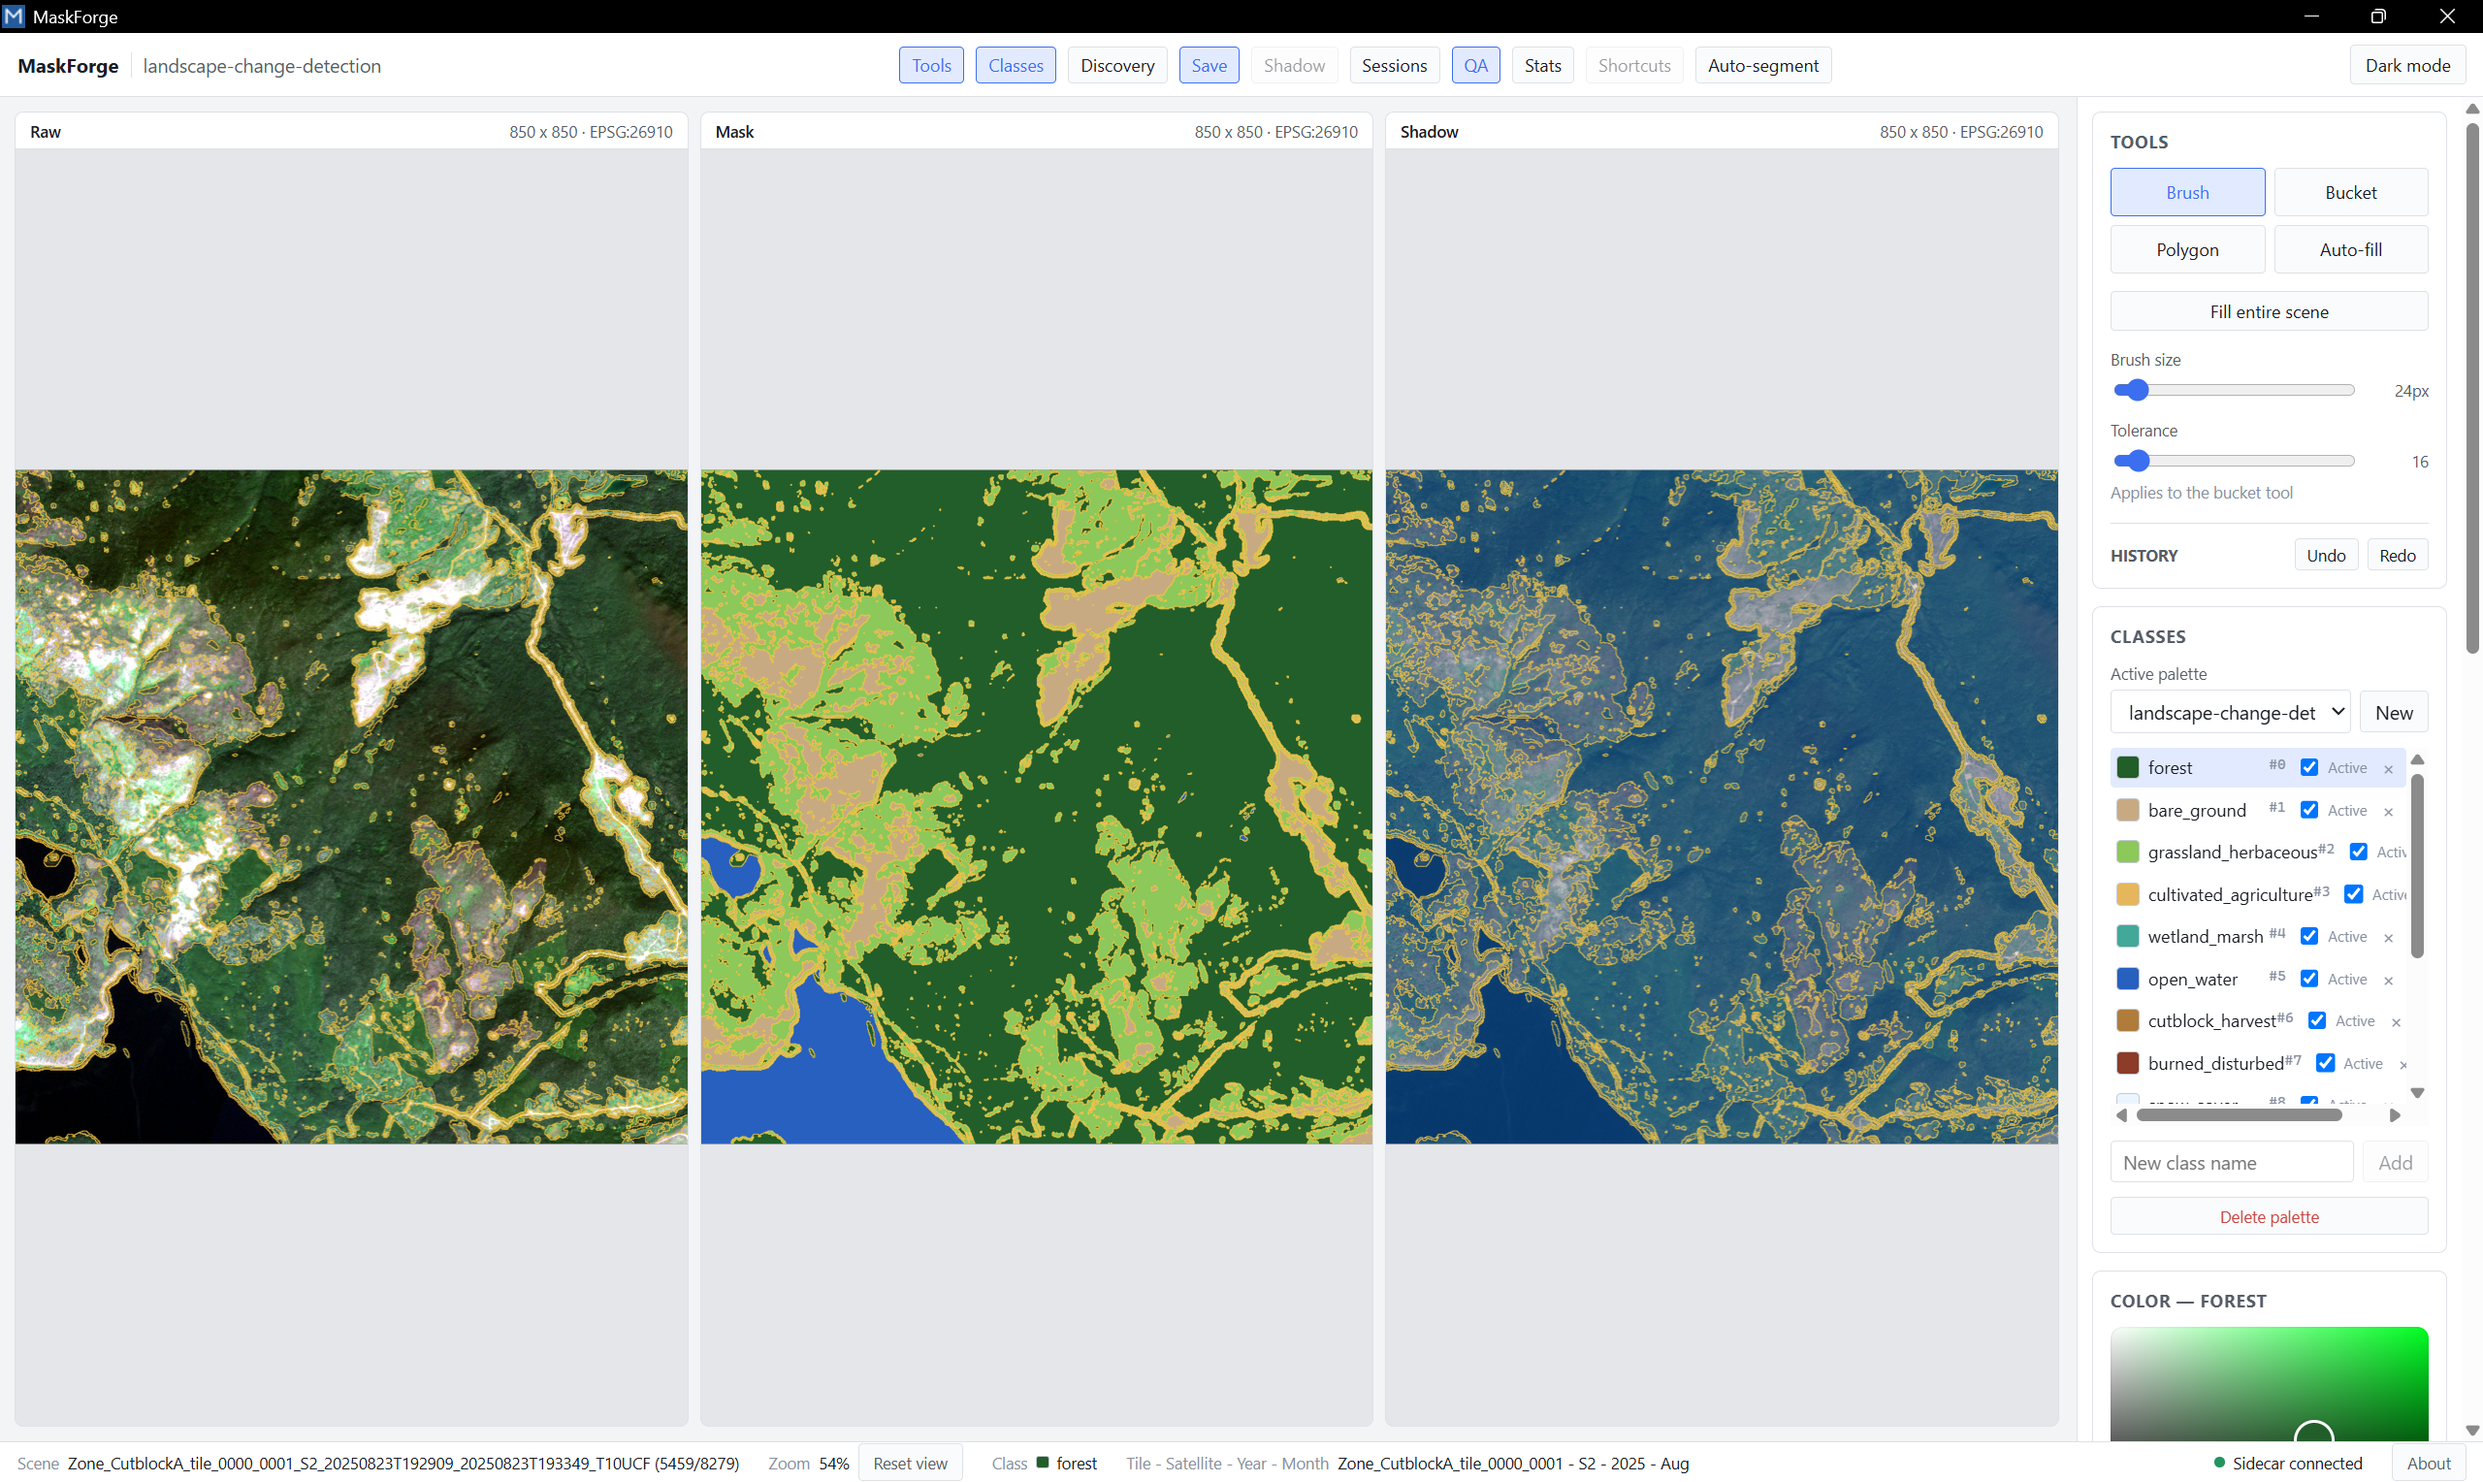
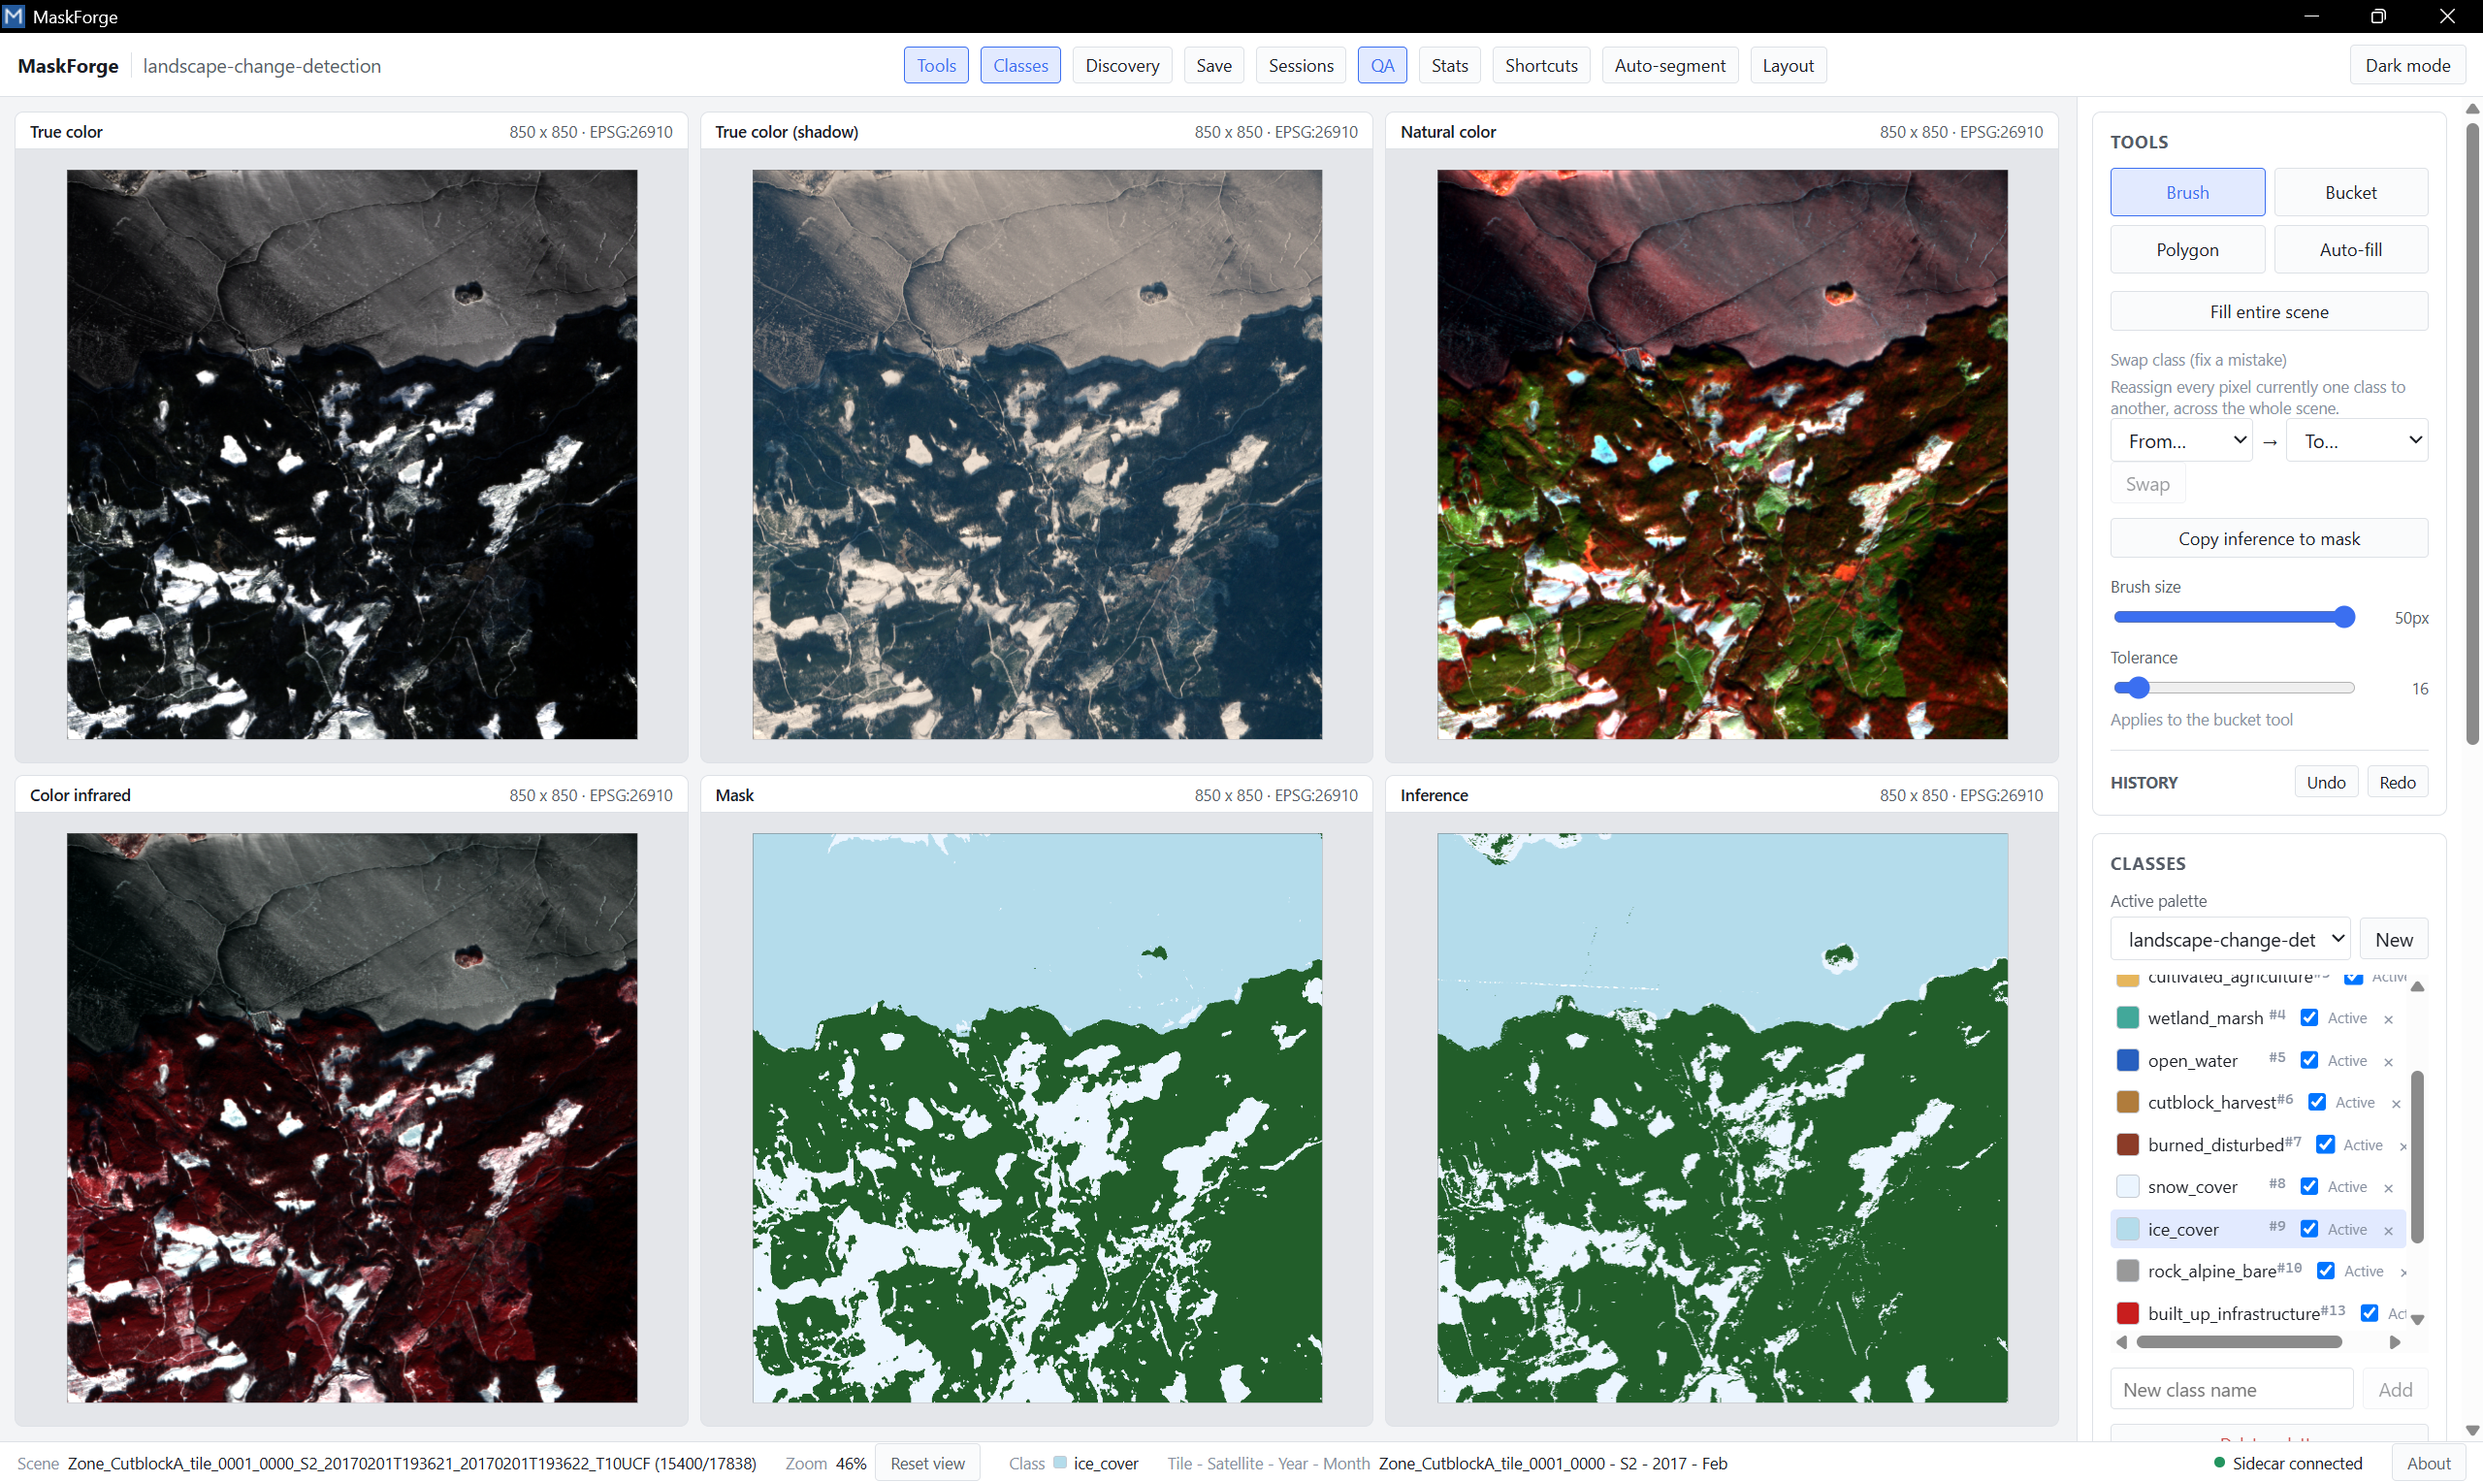
Release v1.2.2: fix reloaded-mask editing (stale render, undo, RGB nodata), filter-aware scene navigation
Editing a previously saved mask always re-rendered the static file on
disk instead of the live in-memory buffer, so painting, undo/redo, and
contour updates had no visible effect until the next save. Also fixes
a 3-band (no-alpha) RGB mask being replaced entirely with nodata on
load instead of decoding its painted classes, and makes Ctrl+A/D scene
navigation respect the Discovery panel's QA/mode filters instead of
walking the full unfiltered scene list.

diff --git a/src/state/sessionStore.ts b/src/state/sessionStore.ts
@@ -4,7 +4,7 @@
  */
 
 import { create } from "zustand";
-import type { SceneEntry, SessionState } from "@/types/api";
+import type { QaStatus, SceneEntry, SceneMode, SessionState } from "@/types/api";
 import { updateSession } from "@/api/client";
 
 const AUTOSAVE_DEBOUNCE_MS = 500;
@@ -18,6 +18,18 @@ export function isSceneDone(scene: SceneEntry): boolean {
   return scene.mode === "review" || scene.qa_status === "validated";
 }
 
+/** Same predicate as DiscoveryPanel's own filteredScenes memo -- kept here
+ * (not local panel state) so Ctrl+A/D scene navigation can skip scenes the
+ * Discovery panel's QA/mode filters currently hide, instead of walking the
+ * full unfiltered scene list. */
+export function matchesSceneFilter(
+  scene: SceneEntry,
+  qaFilter: QaStatus | "all",
+  modeFilter: SceneMode | "all",
+): boolean {
+  return (qaFilter === "all" || scene.qa_status === qaFilter) && (modeFilter === "all" || scene.mode === modeFilter);
+}
+
 export type SidecarConnectionStatus = "connecting" | "connected" | "disconnected";
 
 interface SessionStoreState {
@@ -28,6 +40,11 @@ interface SessionStoreState {
    * process a subset) -- purely a local UI preference, not part of the
    * SessionState schema synced with the sidecar. */
   selectedSceneIds: Set<string>;
+  /** QA-status/mode filters shown in the Discovery panel -- lifted up here
+   * (rather than kept as panel-local state) so scene navigation (Ctrl+A/D)
+   * can respect them too, not just the Discovery panel's own list. */
+  qaFilter: QaStatus | "all";
+  modeFilter: SceneMode | "all";
   dirty: boolean;
   saving: boolean;
   lastSavedAt: number | null;
@@ -59,6 +76,8 @@ interface SessionStoreState {
   toggleSceneSelection: (sceneId: string) => void;
   selectAllScenes: (sceneIds: string[]) => void;
   clearSceneSelection: () => void;
+  setQaFilter: (filter: QaStatus | "all") => void;
+  setModeFilter: (filter: SceneMode | "all") => void;
   setActiveSceneIndex: (index: number) => void;
   goToNextScene: () => void;
   goToNextUnfinishedScene: () => void;
@@ -111,6 +130,8 @@ export const useSessionStore = create<SessionStoreState>((set, get) => ({
   scenes: [],
   activeSceneIndex: 0,
   selectedSceneIds: new Set<string>(),
+  qaFilter: "all",
+  modeFilter: "all",
   dirty: false,
   saving: false,
   lastSavedAt: null,
@@ -187,38 +208,60 @@ export const useSessionStore = create<SessionStoreState>((set, get) => ({
 
   clearSceneSelection: () => set({ selectedSceneIds: new Set<string>() }),
 
+  setQaFilter: (filter) => set({ qaFilter: filter }),
+  setModeFilter: (filter) => set({ modeFilter: filter }),
+
   setActiveSceneIndex: (index) =>
     set((state) => ({
       activeSceneIndex: Math.min(Math.max(0, index), Math.max(0, state.scenes.length - 1)),
     })),
 
   goToNextScene: () =>
-    set((state) => ({
-      activeSceneIndex: Math.min(state.activeSceneIndex + 1, Math.max(0, state.scenes.length - 1)),
-    })),
+    set((state) => {
+      const { scenes, activeSceneIndex, qaFilter, modeFilter } = state;
+      for (let idx = activeSceneIndex + 1; idx < scenes.length; idx++) {
+        if (matchesSceneFilter(scenes[idx], qaFilter, modeFilter)) {
+          return { activeSceneIndex: idx };
+        }
+      }
+      return {};
+    }),
 
   goToNextUnfinishedScene: () =>
     set((state) => {
-      const { scenes, activeSceneIndex } = state;
+      const { scenes, activeSceneIndex, qaFilter, modeFilter } = state;
       if (scenes.length === 0) return {};
       // Search forward from just after the current scene, wrapping around,
       // so a scene already done -- either saved (mode "review") or
       // validated in the QA workflow (qa_status "validated") -- is skipped
-      // in favor of the next one still needing work. Falls back to just
-      // moving forward by one if every remaining scene is already done.
+      // in favor of the next one still needing work, and one hidden by the
+      // Discovery panel's current QA/mode filters is skipped too. Falls
+      // back to the plain next-scene behavior (also filter-aware) if every
+      // remaining scene is already done.
       for (let offset = 1; offset <= scenes.length; offset++) {
         const idx = (activeSceneIndex + offset) % scenes.length;
-        if (!isSceneDone(scenes[idx])) {
+        if (!isSceneDone(scenes[idx]) && matchesSceneFilter(scenes[idx], qaFilter, modeFilter)) {
           return { activeSceneIndex: idx };
         }
       }
-      return { activeSceneIndex: Math.min(activeSceneIndex + 1, scenes.length - 1) };
+      for (let idx = activeSceneIndex + 1; idx < scenes.length; idx++) {
+        if (matchesSceneFilter(scenes[idx], qaFilter, modeFilter)) {
+          return { activeSceneIndex: idx };
+        }
+      }
+      return {};
     }),
 
   goToPreviousScene: () =>
-    set((state) => ({
-      activeSceneIndex: Math.max(state.activeSceneIndex - 1, 0),
-    })),
+    set((state) => {
+      const { scenes, activeSceneIndex, qaFilter, modeFilter } = state;
+      for (let idx = activeSceneIndex - 1; idx >= 0; idx--) {
+        if (matchesSceneFilter(scenes[idx], qaFilter, modeFilter)) {
+          return { activeSceneIndex: idx };
+        }
+      }
+      return {};
+    }),
 
   setConnectionStatus: (status) => set({ connectionStatus: status }),
 

diff --git a/src/components/panels/DiscoveryPanel.tsx b/src/components/panels/DiscoveryPanel.tsx
@@ -20,7 +20,7 @@
  */
 
 import { useMemo, useState } from "react";
-import { isSceneDone, useSessionStore } from "@/state/sessionStore";
+import { isSceneDone, matchesSceneFilter, useSessionStore } from "@/state/sessionStore";
 import { discoverScenes, pickFolder } from "@/api/client";
 import type { DiscoveryConfig, QaStatus, ScanRule, SceneMode } from "@/types/api";
 
@@ -53,6 +53,10 @@ export default function DiscoveryPanel() {
   const toggleSceneSelection = useSessionStore((s) => s.toggleSceneSelection);
   const selectAllScenes = useSessionStore((s) => s.selectAllScenes);
   const clearSceneSelection = useSessionStore((s) => s.clearSceneSelection);
+  const qaFilter = useSessionStore((s) => s.qaFilter);
+  const setQaFilter = useSessionStore((s) => s.setQaFilter);
+  const modeFilter = useSessionStore((s) => s.modeFilter);
+  const setModeFilter = useSessionStore((s) => s.setModeFilter);
 
   const [config, setConfig] = useState<DiscoveryConfig>(
     session?.discovery ?? {
@@ -64,14 +68,9 @@ export default function DiscoveryPanel() {
   );
   const [running, setRunning] = useState(false);
   const [error, setError] = useState<string | null>(null);
-  const [qaFilter, setQaFilter] = useState<QaStatus | "all">("all");
-  const [modeFilter, setModeFilter] = useState<SceneMode | "all">("all");
 
   const filteredScenes = useMemo(
-    () =>
-      scenes.filter(
-        (s) => (qaFilter === "all" || s.qa_status === qaFilter) && (modeFilter === "all" || s.mode === modeFilter),
-      ),
+    () => scenes.filter((s) => matchesSceneFilter(s, qaFilter, modeFilter)),
     [scenes, qaFilter, modeFilter],
   );
 

diff --git a/sidecar/api/routers/scenes.py b/sidecar/api/routers/scenes.py
@@ -240,11 +240,17 @@ def get_layers(scene_id: str, views: str = "") -> LayersResponse:
     # the user to touch a single pixel first.
     buf = _ensure_buffer(scene_id)
 
-    # A scene with no mask.tif on disk yet (never annotated) still has that
-    # freshly-created buffer -- render it instead of returning None, so the
-    # mask panel shows a paintable blank canvas immediately rather than
-    # "No mask yet" until the first stroke happens to succeed.
-    mask_layer = _layer_from_path(scene.mask_path) or _layer_from_mask_buffer(buf)
+    # Always render the live in-memory buffer, never the static file on
+    # disk: _ensure_buffer already loaded scene.mask_path's contents into
+    # buf.classes the first time this scene was opened, and every edit
+    # since (paint, undo/redo, auto-segment apply) mutates buf.classes in
+    # place without rewriting the file until the next explicit save. A
+    # scene with no mask.tif on disk yet (never annotated) still has that
+    # freshly-created buffer (entirely NODATA_VALUE) -- render it instead
+    # of returning None, so the mask panel shows a paintable blank canvas
+    # immediately rather than "No mask yet" until the first stroke happens
+    # to succeed.
+    mask_layer = _layer_from_mask_buffer(buf)
 
     # A scene discovered outside the zarr path (plain raw/shadow files) has
     # no rgb_composites entries -- fall back to its raw_path/shadow_path

diff --git a/sidecar/maskforge_core/raster_io.py b/sidecar/maskforge_core/raster_io.py
@@ -360,6 +360,35 @@ def rgba_to_classes(
     return classes
 
 
+def rgb_to_classes(
+    mask_rgb: np.ndarray,
+    class_colors: dict[str, tuple[int, int, int]],
+    class_values: dict[str, int],
+) -> np.ndarray:
+    """Vectorized RGB (no alpha) -> class-index conversion, for masks saved
+    via the geotiff_rgb output format (see classes_to_rgb, which encodes
+    NODATA_VALUE as black (0, 0, 0) since it has no alpha channel to signal
+    "unpainted" with). Any pixel not matching a known class color -- black
+    or otherwise -- is left at NODATA_VALUE, mirroring rgba_to_classes'
+    unmatched-pixel behaviour.
+    """
+    h, w = mask_rgb.shape[:2]
+    classes = np.full((h, w), NODATA_VALUE, dtype=np.uint8)
+
+    for name, color in class_colors.items():
+        val = class_values.get(name)
+        if val is None:
+            continue
+        m = (
+            (mask_rgb[:, :, 0] == color[0])
+            & (mask_rgb[:, :, 1] == color[1])
+            & (mask_rgb[:, :, 2] == color[2])
+        )
+        classes[m] = val
+
+    return classes
+
+
 def classes_to_rgb(
     classes: np.ndarray,
     class_colors: dict[str, tuple[int, int, int]],

diff --git a/sidecar/api/routers/masks.py b/sidecar/api/routers/masks.py
@@ -101,7 +101,18 @@ def _ensure_buffer(scene_id: str) -> MaskBuffer:
         else:
             rgba, _ = raster_io.read_image_any(mask_path)
         if rgba.ndim == 3 and rgba.shape[-1] == 4:
-            classes = raster_io.rgba_to_classes(rgba, {}, {})
+            palette = state.get_active_palette()
+            class_colors = palette.color_map() if palette is not None else {}
+            class_values = palette.value_map() if palette is not None else {}
+            classes = raster_io.rgba_to_classes(rgba, class_colors, class_values)
+        elif rgba.ndim == 3 and rgba.shape[-1] == 3:
+            # geotiff_rgb output format has no alpha channel -- NODATA_VALUE
+            # was encoded as black on save (see classes_to_rgb), not as
+            # transparency.
+            palette = state.get_active_palette()
+            class_colors = palette.color_map() if palette is not None else {}
+            class_values = palette.value_map() if palette is not None else {}
+            classes = raster_io.rgb_to_classes(rgba, class_colors, class_values)
         elif rgba.ndim == 2:
             classes = rgba.astype(np.uint8)
         else:
